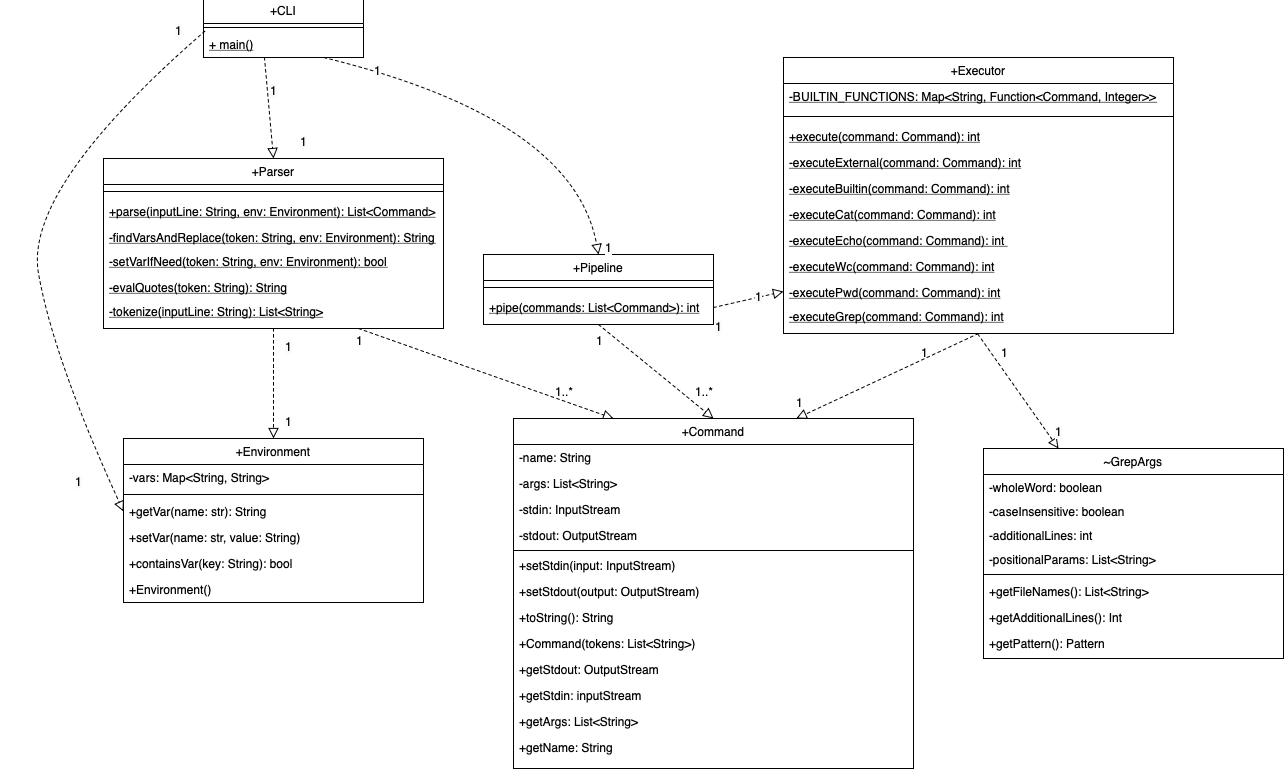
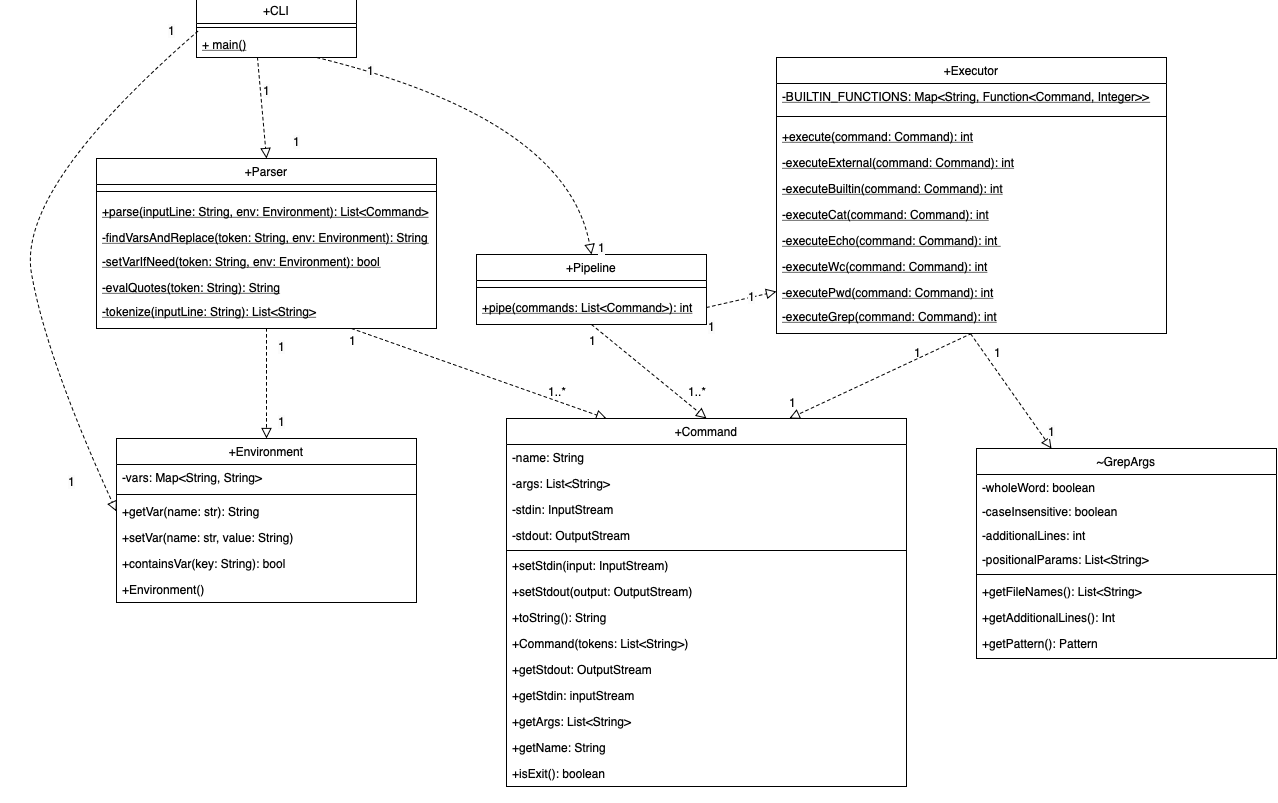
update class_diagram.png

diff --git a/docs/cli_architecthure.md b/docs/cli_architecthure.md
@@ -14,8 +14,7 @@
     * enum/list: builtin_commands
     * args: List<Str> - список параметров команды
     * stdin, stdout - не являются аргументами, задаются/изменяются отдельно в пайплайне или стандартные
-    * constructor, isBuiltin, isExit, setStdin, setStdout
-    * checkNumberOfArguments for each builtin command (вызывается в конструкторе)
+    * constructor, setStdin, setStdout, getArgs, getName, getStdin, getStdout
 * Environment:
     * vars: map[str, str]
     * getter, setter, contains(key)
